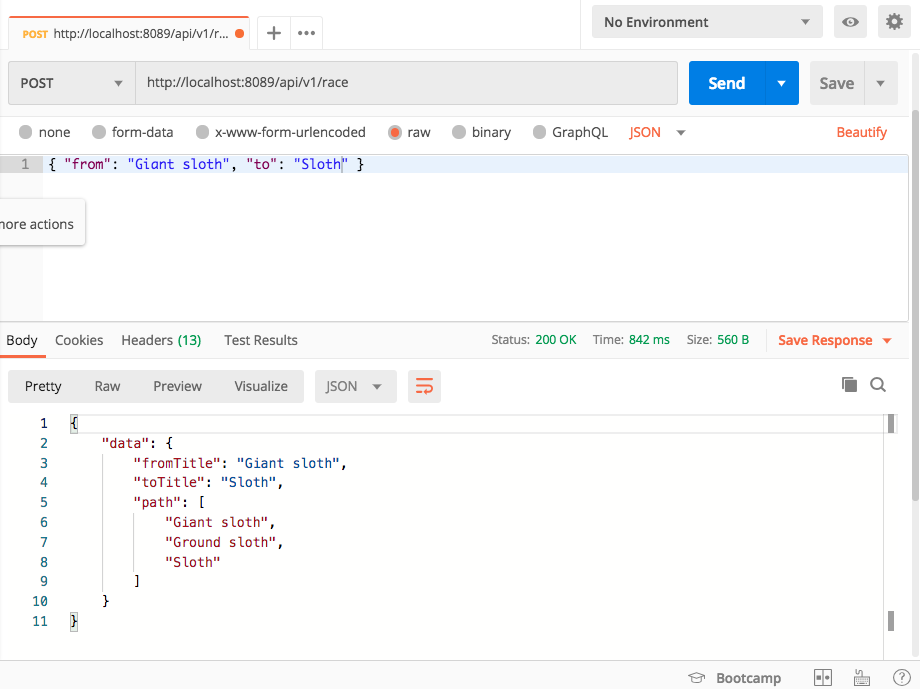
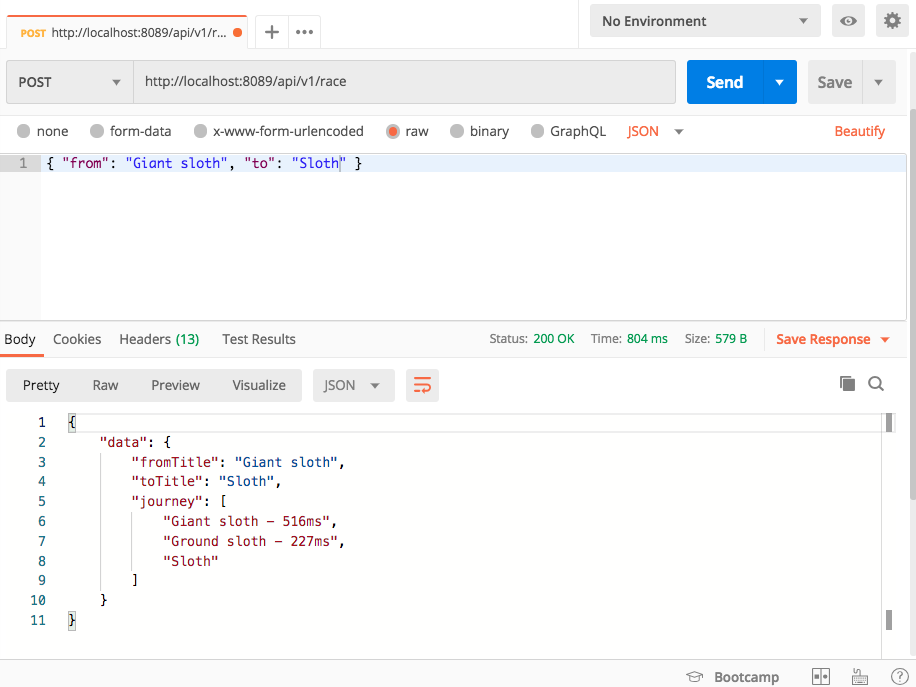
Updated readme

diff --git a/app/services/wiki-racer.js b/app/services/wiki-racer.js
@@ -66,6 +66,19 @@ const _logSearchResult = (searchId, ts, numInQueue) => {
     logger.info(`${idStr} ${parent} -> ${ts.title} | ${ts.duration}ms | Queued: ${numInQueue}`);
 }
 
+const _getJourney = (searched, lastTitle) => {
+    const lastTitleSearch = searched.get(lastTitle);
+    const path = [...lastTitleSearch.parents];
+    path.push(lastTitle);
+    const journey = path.map((p) => {
+        const ts = searched.get(p);
+        return `${p} - ${ts.duration}ms`;
+    });
+    journey.push(lastTitleSearch.destination);
+
+    return journey;
+};
+
 const race = async (start, destination) => {
     const searched = new Map();
 
@@ -73,10 +86,10 @@ const race = async (start, destination) => {
     const NUM_MAX_SEARCHES = config.get('settings.numMaxSearches');
 
     let searchId = 0;
-    let destinationParent = '';
+    let lastTitle = '';
     let toSearch = [new TitleSearch(start, start, [], destination)];
 
-    while(!destinationParent && toSearch.length && searchId < NUM_MAX_SEARCHES) {
+    while(!lastTitle && toSearch.length && searchId < NUM_MAX_SEARCHES) {
         const searches = toSearch.splice(0, NUM_CONCURRENT_SEARCHES);
         const promises = searches.map((ts) => _search(ts, NUM_CONCURRENT_SEARCHES));
         const results = await Promise.all(promises);
@@ -85,7 +98,7 @@ const race = async (start, destination) => {
             searched.set(ts.title, ts);
 
             if (ts.searchNext.some((title) => title === destination)) {
-                destinationParent = ts.title;
+                lastTitle = ts.title;
             } else {
                 ts.searchNext.forEach((next) => {
                     const parents = [...ts.parents];
@@ -102,14 +115,9 @@ const race = async (start, destination) => {
         });
     }
 
-    let path = [];
-    if (destinationParent) {
-        path = [...searched.get(destinationParent).parents];
-        path.push(destinationParent);
-        path.push(destination);
-    }
+    let journey = lastTitle ? _getJourney(searched, lastTitle) : [];
 
-    return { path };
+    return journey;
 };
 
 module.exports = {

diff --git a/app/controllers/race.js b/app/controllers/race.js
@@ -30,13 +30,14 @@ const post = async (req, res, next) => {
             return;
         }
 
-        const result = await wikiracer.race(fromTitle, toTitle);
+        const journey = await wikiracer.race(fromTitle, toTitle);
     
         res.json({
             data: {
                 fromTitle,
                 toTitle,
-                ...result
+                message: journey.length ? 'race complete!' : 'race failed :(',
+                journey
             }
         });
     } catch (err) {

diff --git a/README.md b/README.md
@@ -1,6 +1,6 @@
 # WikiRacer 8000
 
-Wikiracer takes a starting page and an end page (as either a URL or a page title) and successfully figure out how to traverse from one to the other (or tell the user if there isn’t a path). The output would be a list of pages on the path, as well as the total elapsed time to run.
+Wikiracer takes a starting page and an end page (as a page title) and successfully figure out how to traverse from one to the other (or tell the user if there isn’t a path). The output would be a list of pages on the path, as well as the total elapsed time to run.
 
 ## High-level architecture overview
 
